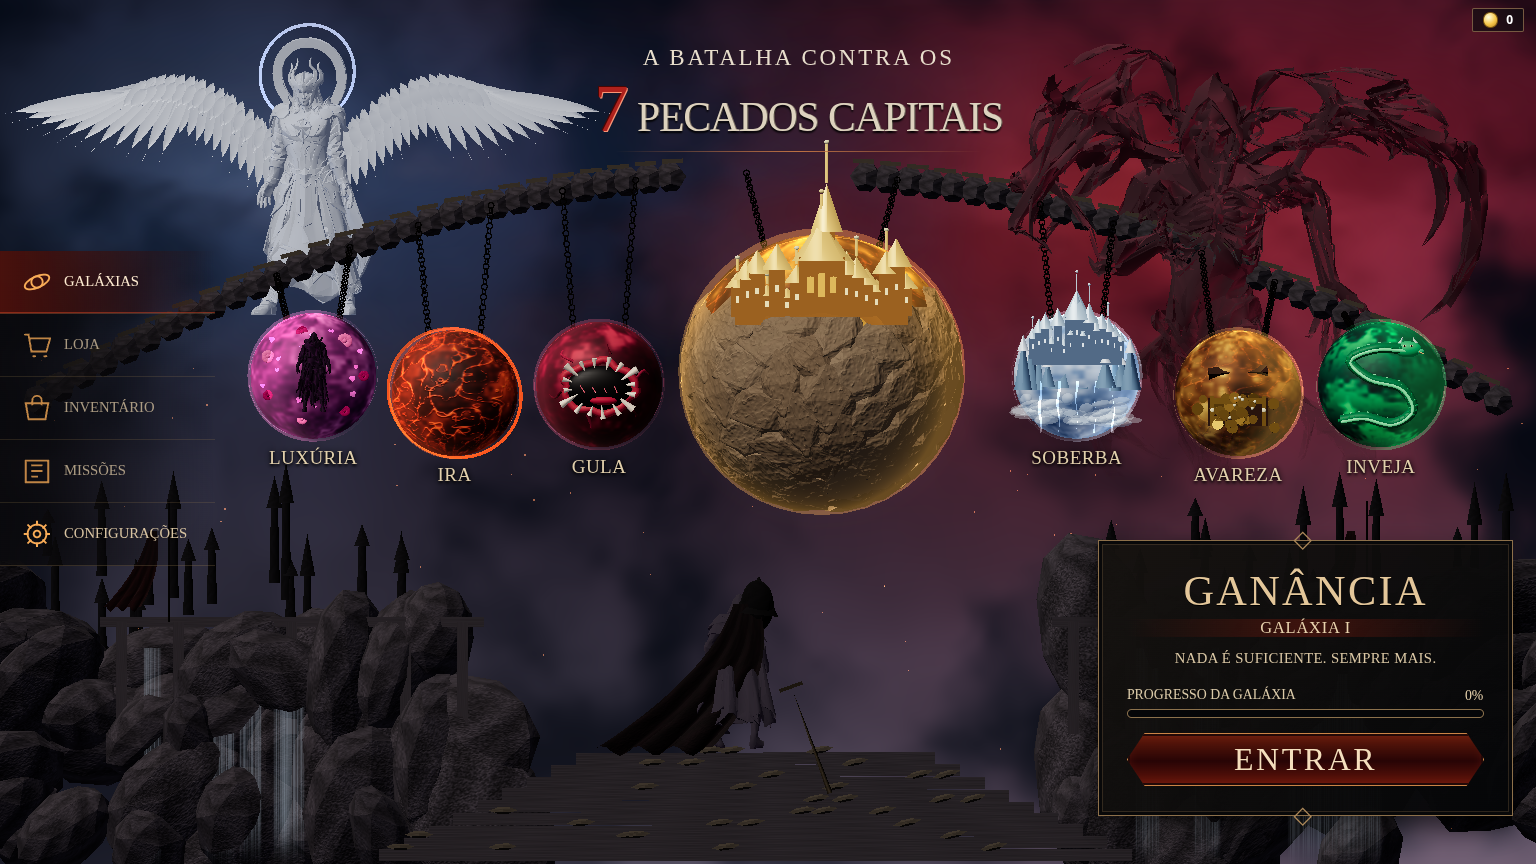
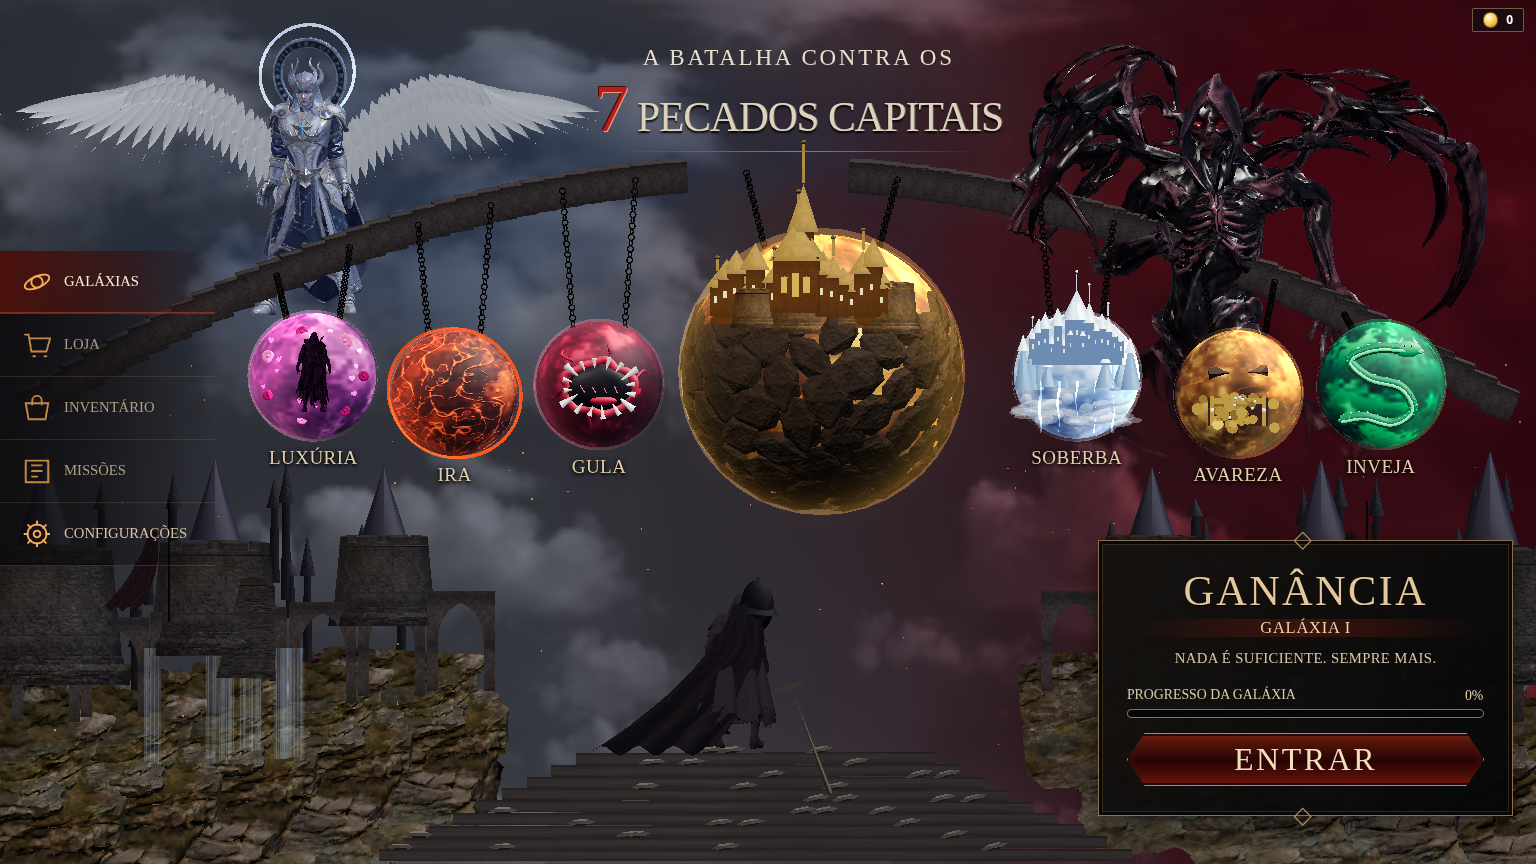
test(menu): atualizar evidencias reais do refinamento PBR e CC0

diff --git a/assets/ui/qa/menu-cinematico-2026-11-15/README.md b/assets/ui/qa/menu-cinematico-2026-11-15/README.md
@@ -1,6 +1,6 @@
 # Evidência real — menu cinematográfico
 
-Código: `35c415b`; baseline: `2732e9d`. PNGs capturados no Chromium, abertos e inspecionados, nos mesmos 1536×864 e 852×393. Nenhum PNG faz parte do runtime.
+Atualizado em 16/11/2026. Código: `385dab9`; baseline: `2732e9d`. PNGs capturados no Chromium, abertos e inspecionados, nos mesmos 1536×864 e 852×393. Nenhum PNG faz parte do runtime.
 
 | Viewport | Antes | Depois |
 | --- | --- | --- |
@@ -9,9 +9,11 @@ Código: `35c415b`; baseline: `2732e9d`. PNGs capturados no Chromium, abertos e 
 
 [Fallback sem WebGL](fallback.png) · [mundo real após ENTRAR](world-after-enter.png)
 
-GPU: 300 → 194 draw calls (−35,3%); 184.277 → 206.400 triângulos (+12,0%); 9 → 11 texturas. O oitavo planeta duplicado do painel foi eliminado. A nova efígie estática tem aproximadamente 317 KiB, sem texturas/animações.
+GPU desktop: 300 → 230 draw calls (−23,3%); 184.277 → 347.186 triângulos; 9 → 28 texturas. Mobile usa seis instâncias de rocha em vez de dez: 226 calls / 314.074 triângulos / 28 texturas. O refinamento PBR/CC0 **aumenta custo geométrico e texturas** em relação ao baseline e à primeira proposta. A redução das rochas para 28% removeu cerca de 197 mil triângulos do primeiro ensaio com fotogrametria. Todas as texturas CC0 de superfície são 512px; HDR 1K. A efígie estática agora conserva os mapas PBR 512px, com aproximadamente 972 KiB.
 
-Tempo observado até modelos carregados: desktop 11.423 → 4.295 ms; móvel 5.979 → 1.851 ms. São execuções isoladas sujeitas a cache, CDN e concorrência, **não um benchmark de velocidade**. Não foi medido FPS em Samsung A55 ou outro aparelho físico.
+Tempo observado até modelos carregados: desktop 11.423 → 7.159 ms; móvel 5.979 → 3.409 ms. São execuções isoladas sujeitas a cache, CDN e concorrência, **não um benchmark de velocidade**. A telemetria só é lida após um frame posterior ao término das cargas (incluindo movimento reduzido). Não foi medido FPS em Samsung A55 ou outro aparelho físico.
+
+[Fontes CC0 e reprodução](../../menu/polyhaven/LICENSE-SOURCES.md): Rock Face 02, Modular Fort 01 e céu HDR da Poly Haven, usados como geometria, materiais PBR e iluminação. Downloads adicionais em runtime são locais ao repositório; não há serviço pago nem chamadas ao site de modelos. O anjo mantém os detalhes de sua textura original e o demônio usa uma derivação estática do GLB do projeto; originais preservados.
 
 [QA navegador](browser-report.json): sete seleções por teclado/toque, bloqueios/requisitos, configurações, três destinos desabilitados, prontidão, moedas 1.234 e progresso 31% dinâmicos, contexto perdido/restaurado, aba oculta sem agendar rAF, fechamento, viewport 667×375 com movimento reduzido e WebGL indisponível. Sem erros JS, console ou rede nas três execuções WebGL.
 
